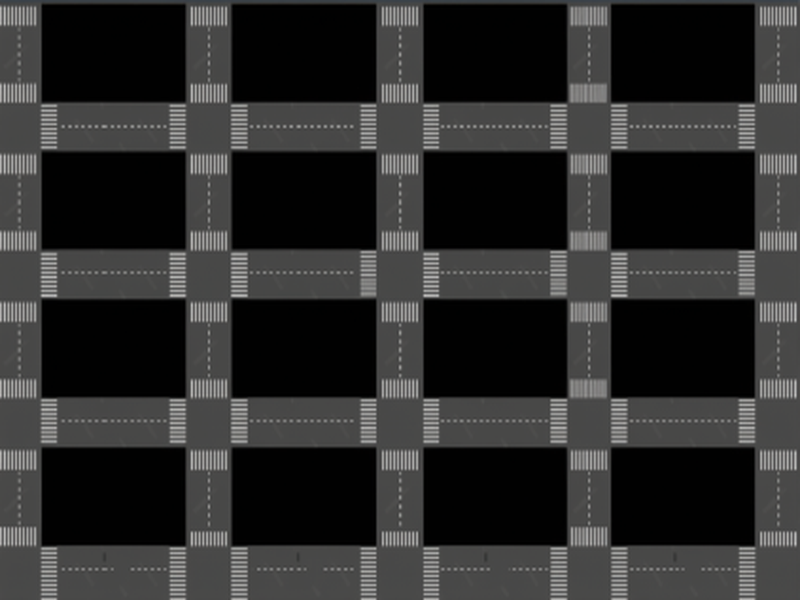
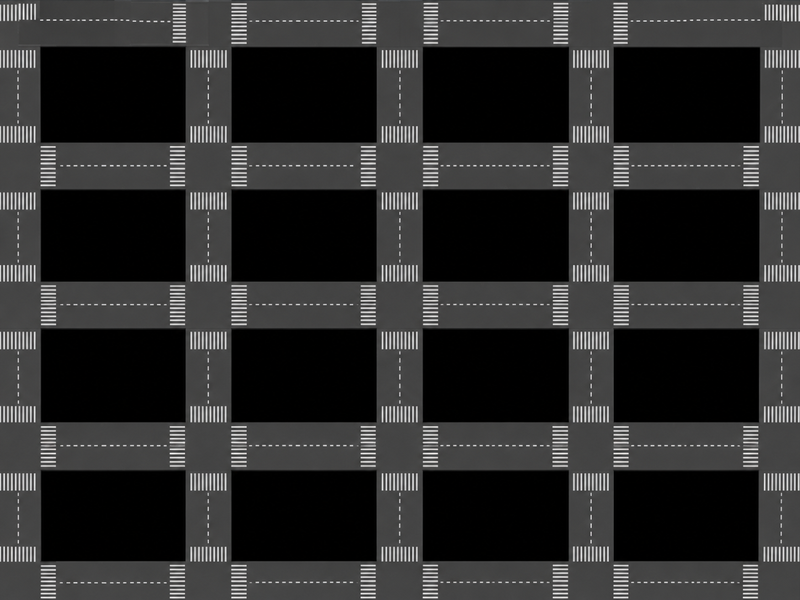
Actualizacion de fondo y manzanas

diff --git a/Entorno-TP/src/juego/Fondo.java b/Entorno-TP/src/juego/Fondo.java
@@ -10,15 +10,28 @@ public class Fondo {
 
     public Fondo() {
         imagen = Herramientas.cargarImagen("fondo.png");
+
+        if (imagen == null) {
+            System.out.println("No se pudo cargar fondo.png");
+        } else {
+            System.out.println("Imagen cargada: "
+                + imagen.getWidth(null) + " x "
+                + imagen.getHeight(null));
+        }
     }
 
     public void mostrar(Entorno entorno) {
+        if (imagen == null) {
+            System.out.println("ERROR: No se pudo cargar fondo.png");
+            return;
+        }
+
         entorno.dibujarImagen(
             imagen,
             entorno.ancho() / 2,
             entorno.alto() / 2,
             0,
-            800.0 / imagen.getWidth(null)
+            (double) entorno.ancho() / imagen.getWidth(null)
         );
     }
 }

diff --git a/Entorno-TP/src/juego/Juego.java b/Entorno-TP/src/juego/Juego.java
@@ -37,9 +37,8 @@ public class Juego extends InterfaceJuego
 
 
 		// Centros (X e Y) calculados para los espacios vacíos del mapa
-		double[] posx = { 113, 304, 495, 683 };
-		double[] posy = { 53.0, 201.0, 348.0, 496.0 };
-
+		double[] posx = { 113, 304, 496, 686 };
+		double[] posy = { 96.0, 238.0, 375.0, 520.0 };
 
 		int k = 0;
 		for (double element : posy) {
